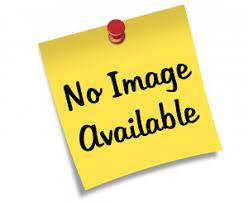
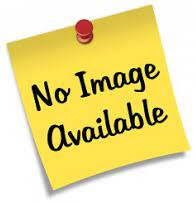
updated

diff --git a/src/Modules/Recipes/Components/RecipesList/Recipes.jsx b/src/Modules/Recipes/Components/RecipesList/Recipes.jsx
@@ -123,7 +123,7 @@ export default function Recipes() {
                           e.target.src = noImg;
                         }}
                         onLoad={()=>setImgLoading(false)}
-                        style={{ width: '60px', height: '50px' }}
+                        style={{ width: '60px', height: '60px' }}
                         />
                       
                     </td>
